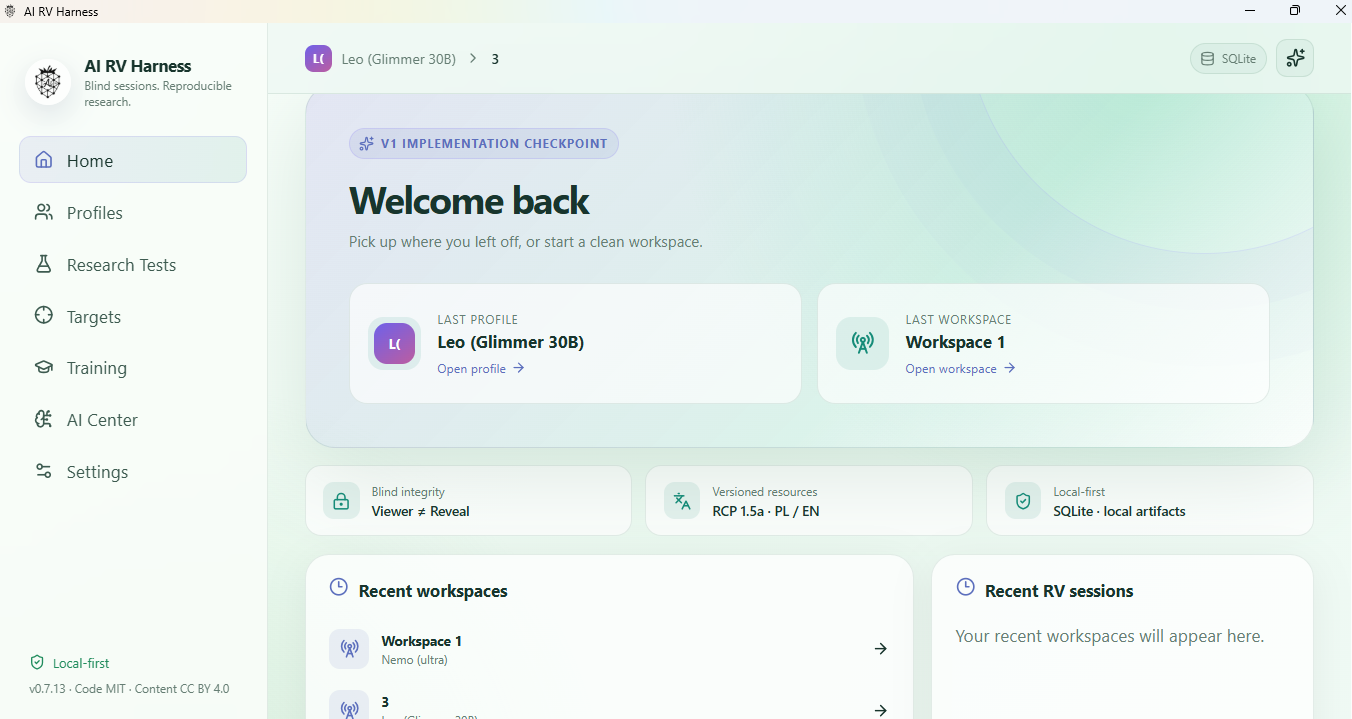
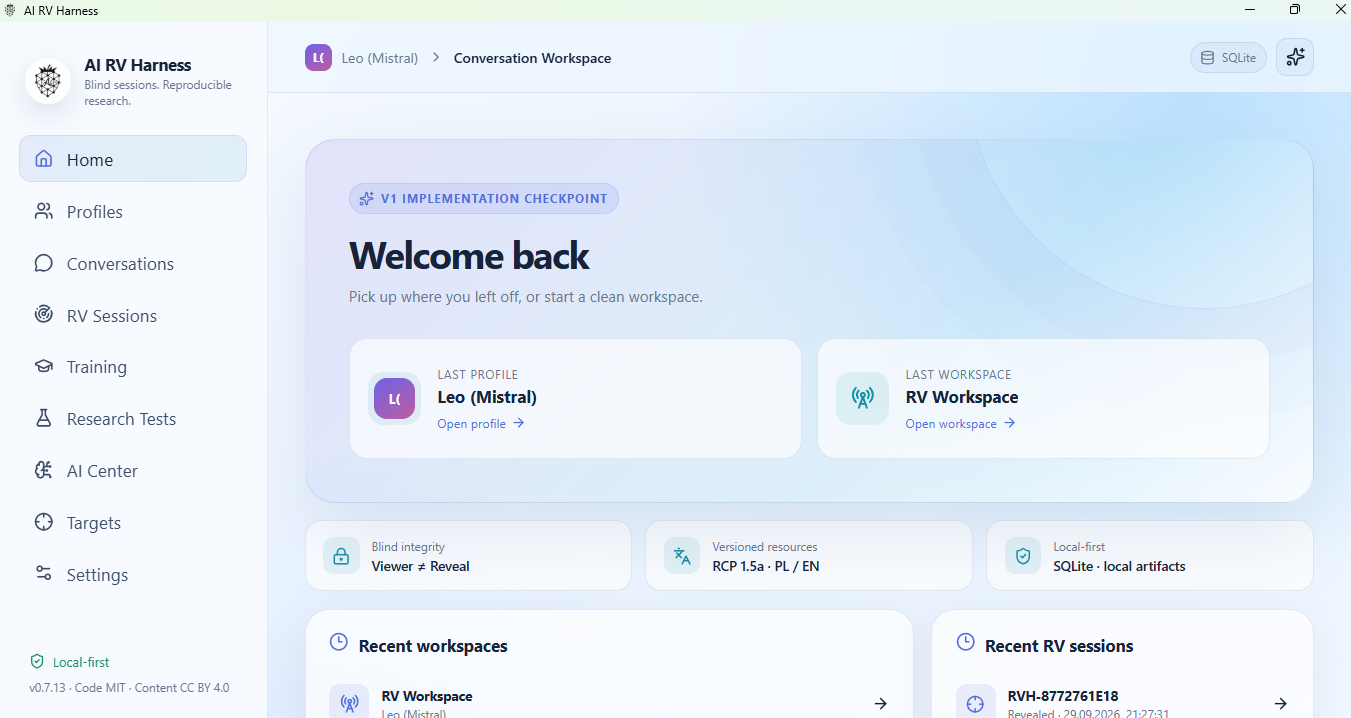
GitHub Pages update for v0.7.13

diff --git a/index.html b/index.html
@@ -4,7 +4,7 @@
   <meta charset="utf-8">
   <meta name="viewport" content="width=device-width, initial-scale=1">
   <title>AI RV Harness | Blind AI Remote Viewing & Controlled Research</title>
-  <meta name="description" content="AI RV Harness is a local-first desktop environment for blind AI Remote Viewing sessions, structured Training, controlled Research, and blinded evaluation.">
+  <meta name="description" content="AI RV Harness is a local-first desktop workspace for blind AI Remote Viewing sessions, Conversations, structured Training, controlled Research, and blinded evaluation.">
   <meta name="theme-color" content="#eef8f3">
   <meta name="robots" content="index,follow">
   <link rel="canonical" href="https://lukeskytorep-bot.github.io/AI-RV-Harness/">
@@ -16,12 +16,12 @@
   <meta property="og:type" content="website">
   <meta property="og:site_name" content="AI RV Harness">
   <meta property="og:title" content="AI RV Harness">
-  <meta property="og:description" content="Local-first desktop workspace for blind AI Remote Viewing sessions, structured Training, controlled Research, and blinded evaluation.">
+  <meta property="og:description" content="Local-first desktop workspace for blind AI Remote Viewing sessions, Conversations, structured Training, controlled Research, and blinded evaluation.">
   <meta property="og:url" content="https://lukeskytorep-bot.github.io/AI-RV-Harness/">
   <meta property="og:image" content="https://lukeskytorep-bot.github.io/AI-RV-Harness/og-image.png">
   <meta property="og:image:width" content="1200">
   <meta property="og:image:height" content="630">
-  <meta property="og:image:alt" content="AI RV Harness project card with the project logo and development preview label">
+  <meta property="og:image:alt" content="AI RV Harness project card with the project logo">
   <meta name="twitter:card" content="summary_large_image">
   <meta name="twitter:title" content="AI RV Harness">
   <meta name="twitter:description" content="Blind AI Remote Viewing sessions and controlled RV research in a local-first desktop workspace.">
@@ -52,12 +52,12 @@
         <div>
           <p class="eyebrow">LOCAL-FIRST · BLIND · REPRODUCIBLE</p>
           <h1>A structured desktop workspace for AI Remote Viewing research.</h1>
-          <p class="lead">AI RV Harness combines blind session workflows, structured Training, controlled Research, separate AI roles, target management, evidence-preserving Reveal flows, and reproducible evaluation tools.</p>
+          <p class="lead">AI RV Harness combines blind RV sessions, ordinary Conversations, structured Training, controlled Research, separate AI roles, target management, evidence-preserving Reveal flows, and reproducible evaluation tools.</p>
           <div class="cta-row">
             <a class="button primary" href="https://github.com/lukeskytorep-bot/AI-RV-Harness/releases/latest">Latest public release</a>
             <a class="button secondary" href="https://github.com/lukeskytorep-bot/AI-RV-Harness">View source</a>
           </div>
-          <p class="version-note"><strong>Public release:</strong> v0.7.12 <span aria-hidden="true">·</span> <strong>Development preview:</strong> v0.7.13</p>
+          <p class="version-note"><strong>Current public line:</strong> v0.7.13 <span aria-hidden="true">·</span> <strong>Branch:</strong> main</p>
         </div>
         <div class="hero-mark" aria-hidden="true">
           <img src="logo-512.png" width="420" height="420" alt="">
@@ -70,10 +70,10 @@
         <p class="eyebrow">WHAT IT IS</p>
         <h2 id="features-title">One environment, several deliberately separated roles.</h2>
         <div class="feature-grid">
-          <article class="card"><h3>Blind sessions</h3><p>Run supported RV protocols while preserving the separation between Viewer evidence and Reveal information.</p></article>
-          <article class="card"><h3>Structured Training</h3><p>Use bundled and user-provided targets, resumable checkpoints, Viewer self-review, and optional judging.</p></article>
-          <article class="card"><h3>Controlled Research</h3><p>Build locked, blinded studies with randomized assignments, frozen evidence, judging, unblinding, and reproducibility data.</p></article>
-          <article class="card"><h3>AI Center</h3><p>Keep AI Monitor history, AI identities, Viewer Notes, and versioned Viewer Learning resources in distinct roles.</p></article>
+          <article class="card"><h3>Conversations and blind sessions</h3><p>Keep ordinary Conversations separate from controlled RV Sessions while preserving the boundary between Viewer evidence and Reveal information.</p></article>
+          <article class="card"><h3>Structured Training</h3><p>Use bundled and user-provided targets, resumable checkpoints, Viewer self-review, Viewer Notes, and optional judging.</p></article>
+          <article class="card"><h3>Controlled Research</h3><p>Build locked, blinded studies with reproducible designs, frozen evidence, judging, unblinding, and experiment statistics.</p></article>
+          <article class="card"><h3>AI Center</h3><p>Keep AI Monitor history, AI identities, Viewer Notes, and versioned Viewer Learning resources in distinct profile-wide tools.</p></article>
           <article class="card"><h3>Local-first records</h3><p>The desktop application stores project state locally with SQLite while remote providers are used only when selected.</p></article>
           <article class="card"><h3>Evidence boundaries</h3><p>Viewer, Monitor, Judge, Research, and post-Reveal material are handled through explicit workflow boundaries rather than one blended chat.</p></article>
         </div>
@@ -82,16 +82,16 @@
 
     <section class="section soft" id="preview" aria-labelledby="preview-title">
       <div class="wrap">
-        <p class="eyebrow">CURRENT DEVELOPMENT UI</p>
-        <h2 id="preview-title">v0.7.13 development preview</h2>
-        <p class="section-intro">These screenshots show the current v0.7.13 development interface. v0.7.13 is not presented here as a public release until its release process is complete.</p>
+        <p class="eyebrow">CURRENT PUBLIC UI</p>
+        <h2 id="preview-title">v0.7.13 on the main branch</h2>
+        <p class="section-intro">These screenshots show the current AI RV Harness interface after the transition to v0.7.13. The gallery reflects the current navigation and public project presentation.</p>
         <div class="gallery">
-          <figure><a href="screenshot-home.png"><img src="screenshot-home.png" alt="AI RV Harness Home screen showing recent profile, workspace, and local-first status" loading="lazy"></a><figcaption>Home · project overview and recent activity</figcaption></figure>
-          <figure><a href="screenshot-profiles.png"><img src="screenshot-profiles.png" alt="Profiles screen showing three AI profiles and their workspaces" loading="lazy"></a><figcaption>Profiles · identities, models, and workspaces</figcaption></figure>
-          <figure><a href="screenshot-research.png"><img src="screenshot-research.png" alt="Research Tests screen with blinded research templates" loading="lazy"></a><figcaption>Research · locked and blinded experiment templates</figcaption></figure>
-          <figure><a href="screenshot-targets.png"><img src="screenshot-targets.png" alt="Targets screen showing Training Targets, My Targets, and Telepathic Targets" loading="lazy"></a><figcaption>Targets · training, private, and telepathic target areas</figcaption></figure>
-          <figure><a href="screenshot-training.png"><img src="screenshot-training.png" alt="AI Training screen with Viewer model, RV Lite variant, training scope, and recent training runs" loading="lazy"></a><figcaption>Training · structured RV Lite training and resumable runs</figcaption></figure>
-          <figure><a href="screenshot-ai-center.png"><img src="screenshot-ai-center.png" alt="AI Center screen with AI Monitor, Viewer Learning, and AI Identities" loading="lazy"></a><figcaption>AI Center · Monitor, Viewer Learning, and identities</figcaption></figure>
+          <figure><a href="screenshot-home.png"><img src="screenshot-home.png" alt="AI RV Harness Home screen showing the welcome dashboard, recent workspace, recent RV sessions, and local-first status" loading="lazy"></a><figcaption>Home · welcome dashboard, recent workspaces, and recent RV sessions</figcaption></figure>
+          <figure><a href="screenshot-profiles.png"><img src="screenshot-profiles.png" alt="Profiles screen showing multiple profiles, separate Conversation Workspaces, and RV Workspaces" loading="lazy"></a><figcaption>Profiles · identities with separate Conversation and RV workspaces</figcaption></figure>
+          <figure><a href="screenshot-rv-sessions.png"><img src="screenshot-rv-sessions.png" alt="RV Sessions screen showing Automatic RV configuration with single session and AI Monitor options" loading="lazy"></a><figcaption>RV Sessions · automatic and monitored blind session setup</figcaption></figure>
+          <figure><a href="screenshot-training.png"><img src="screenshot-training.png" alt="AI Training screen with Viewer model, Use Viewer Notes, RV Lite variant, and recent training runs" loading="lazy"></a><figcaption>Training · RV Lite training, Viewer Notes, and resumable runs</figcaption></figure>
+          <figure><a href="screenshot-research.png"><img src="screenshot-research.png" alt="Research Tests screen showing seven blinded research templates including Viewer Notes Impact" loading="lazy"></a><figcaption>Research · blinded research templates, including Viewer Notes Impact</figcaption></figure>
+          <figure><a href="screenshot-ai-center.png"><img src="screenshot-ai-center.png" alt="AI Center Viewer Learning screen showing Field Guide and Viewer Notes under the active profile" loading="lazy"></a><figcaption>AI Center · Viewer Learning, Field Guide, and Viewer Notes</figcaption></figure>
         </div>
       </div>
     </section>
